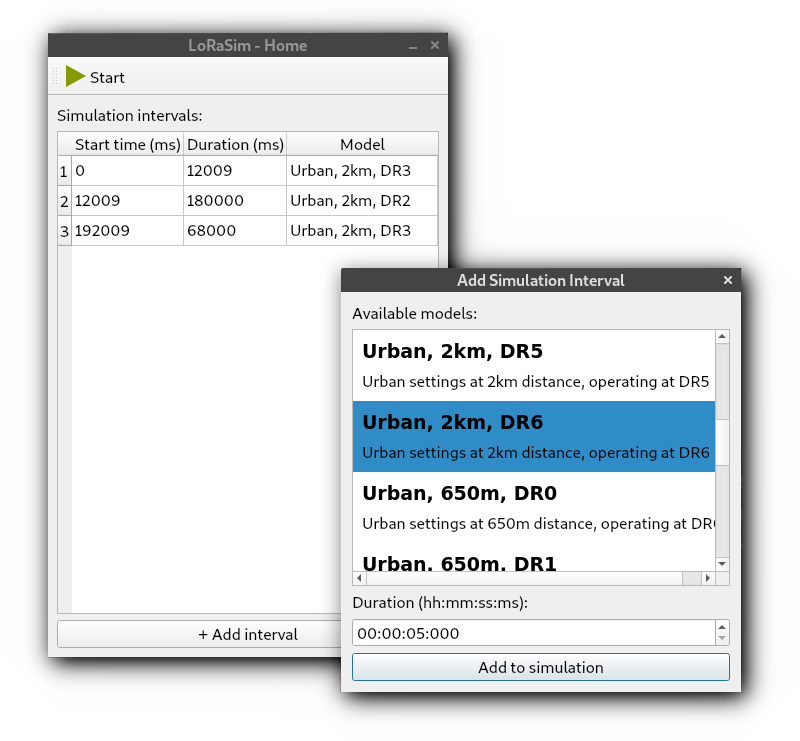
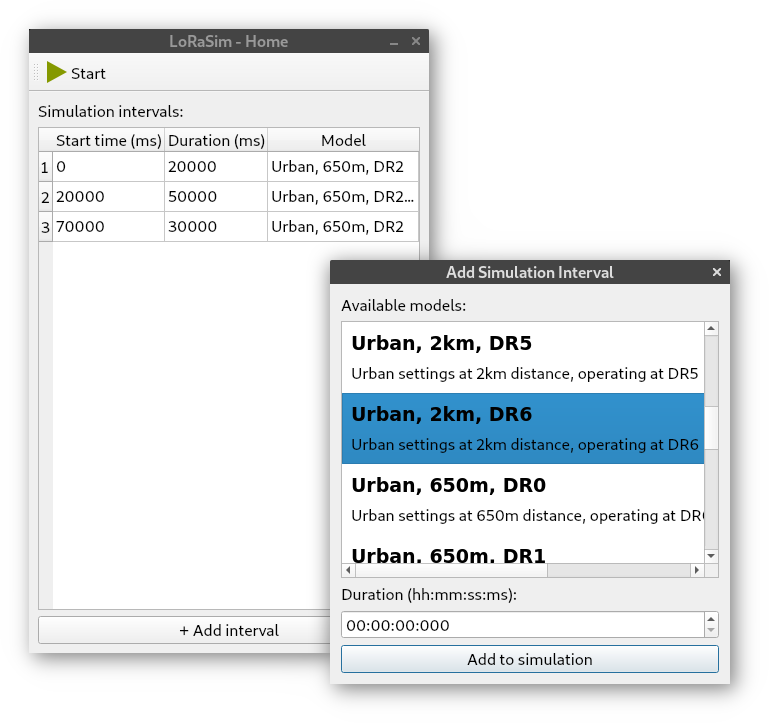
Update images in READNE.md

Changed region(s): [[0.0312, 0.0304, 0.9675, 0.9737], [0.4057, 0.3651, 0.4369, 0.3956]]

diff --git a/README.md b/README.md
@@ -1,8 +1,9 @@
 # LoRaSim
-**LoRaSim** simulates LoRa traffic by means of Markov Chains as models.
-
-![LoRaSim LoRa Simulator](img/plot_1.png)
-
-Different models can be interleaved for different time intervals.
+**LoRaSim** simulates LoRa traffic by means of Markov Chains as models. These models are readily available in the simulator, but the collection is expandable by the user. Different models can be interleaved for different time intervals in order to observe the effect of interference or of a change in the transceiver settings.
 
 ![LoRaSim LoRa Simulator](img/home.png)
+
+The result of the simulation is a plot showing how the delivery probability of a packet changes over time.
+
+
+![LoRaSim LoRa Simulator](img/plot_1.png)
